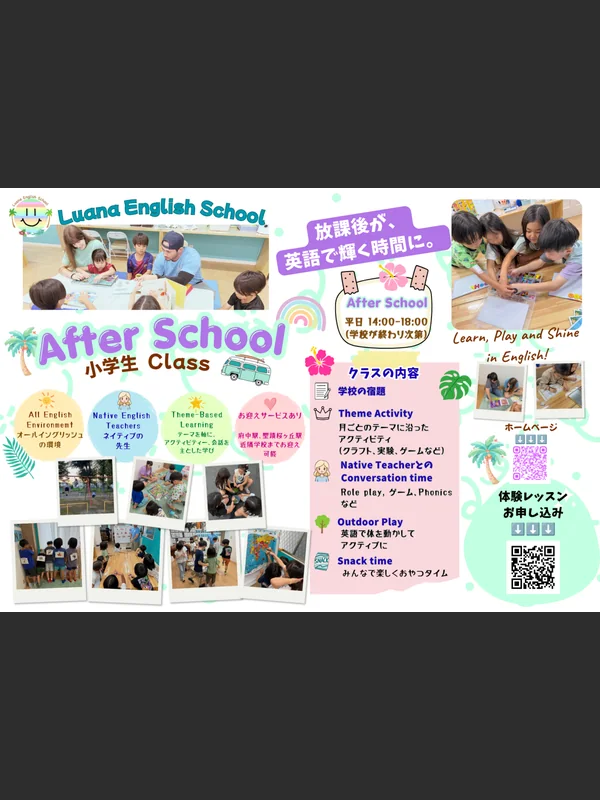
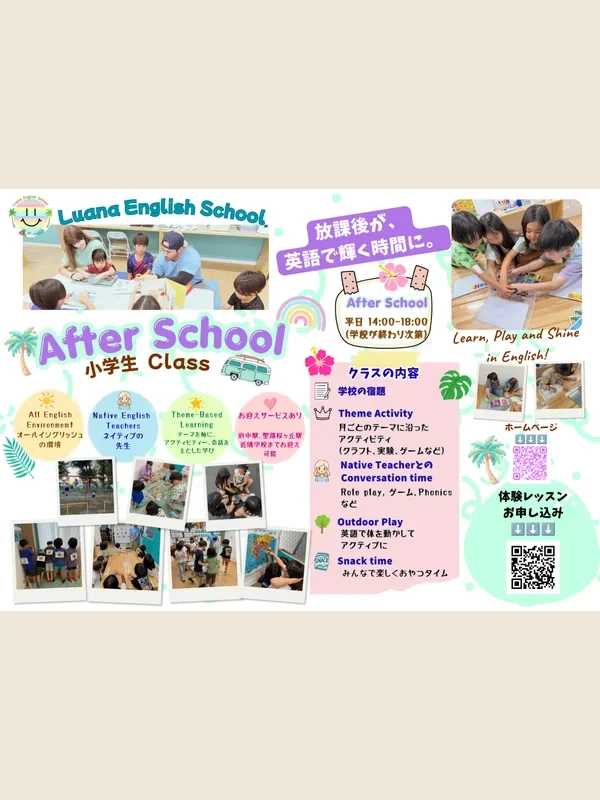
Site: lighter pages, softer flyer frames, tappable class links
- Tab icon: every page used the 573 KB logo.png as its favicon. A 96px
  favicon-96.png (11 KB) replaces it on all 16 pages.
- Summer page: seven photos existed only at 1600px. Added 960px versions
  and gave all ten large photos a srcset with measured sizes, so phones
  stop downloading the largest files (~3.8 MB -> ~1.8 MB while scrolling).
- Flyer and newsletter thumbnails: the dark #2D2D2D letterbox is now a
  light #EFE7DA. make-pdf-thumbs.py uses the new colour.
- Class pages: the その他のクラス links are padded to 42-45px tall
  (were 20px, under the WCAG 2.2 target size).

diff --git a/summer.html b/summer.html
@@ -3,7 +3,7 @@
 <head>
 <meta charset="UTF-8">
 <meta name="viewport" content="width=device-width, initial-scale=1.0">
-<link rel="icon" type="image/png" href="logo.png?v=20260814-transparent"><link rel="apple-touch-icon" href="/apple-touch-icon.png">
+<link rel="icon" type="image/png" href="/favicon-96.png?v=20261117"><link rel="apple-touch-icon" href="/apple-touch-icon.png">
 <link rel="stylesheet" href="site.css?v=20261010-waves">
 <link rel="canonical" href="https://luanaenglishschool.jp/summer">
 <title>府中市の子ども英語サマースクール2026｜活動の様子と通常クラス｜Luana</title>
@@ -81,36 +81,36 @@ nav{position:fixed;z-index:190;top:0;left:0;display:flex;width:100%;min-height:8
 
 <section class="summer-week week-festivals" aria-labelledby="week-1-title"><div class="summer-container"><div class="week-header"><div class="week-number"><span>Theme Week</span><strong>Week 1</strong></div><div class="week-copy"><h2 id="week-1-title" class="summer-heading">Festivals of the World</h2><p>タイ、ブラジル、インド、日本。水や色、衣装を使った活動を通して、世界のお祭りを英語と一緒に楽しみました。金曜日はteamLabへ出かけ、光と色に包まれる体験で一週間を締めくくりました。</p><ul class="week-route"><li>Songkran</li><li>Brazil Carnival</li><li>Holi</li><li>Japan Matsuri</li><li>Friday: teamLab</li></ul></div></div>
 <div class="story-grid">
-<figure class="story-photo featured"><img src="photos/summer-2026/1600/W1-D4-01-Japan-Matsuri.webp" srcset="photos/summer-2026/960/W1-D4-01-Japan-Matsuri.webp 960w,photos/summer-2026/1600/W1-D4-01-Japan-Matsuri.webp 1200w" sizes="(max-width:640px) calc(100vw - 24px),56vw" alt="夏祭りの活動で先生と一緒に写真を撮る子どもたち" width="1200" height="1500" loading="lazy"><figcaption>先生と一緒に楽しんだ Japan Matsuri</figcaption></figure>
+<figure class="story-photo featured"><img src="photos/summer-2026/1600/W1-D4-01-Japan-Matsuri.webp" srcset="photos/summer-2026/480/W1-D4-01-Japan-Matsuri.webp 480w,photos/summer-2026/720/W1-D4-01-Japan-Matsuri.webp 720w,photos/summer-2026/960/W1-D4-01-Japan-Matsuri.webp 960w,photos/summer-2026/1600/W1-D4-01-Japan-Matsuri.webp 1200w" sizes="(max-width:640px) calc(100vw - 24px),(max-width:900px) calc(100vw - 36px),(max-width:1200px) 47vw,574px" alt="夏祭りの活動で先生と一緒に写真を撮る子どもたち" width="1200" height="1500" loading="lazy"><figcaption>先生と一緒に楽しんだ Japan Matsuri</figcaption></figure>
 <figure class="story-photo"><img src="photos/summer-2026/960/W1-D1-03-Songkran.webp" alt="光を使ったソンクラーンのテーマ活動に取り組む子どもたち" width="913" height="732" loading="lazy"><figcaption>水と光から広がる Songkran</figcaption></figure>
 <figure class="story-photo"><img src="photos/summer-2026/960/W1-D2-01-Brazil-Carnival.webp" alt="手作りのカーニバルマスクを着けて踊る子ども" width="960" height="1200" loading="lazy"><figcaption>作ったマスクで Carnival</figcaption></figure>
-<figure class="story-photo wide"><img src="photos/summer-2026/1600/W1-D3-01-India-Holi.webp" alt="ホーリーをテーマに屋外で水遊びをする子どもたちと先生" width="1200" height="1500" loading="lazy"><figcaption>色と水で表現する Holi</figcaption></figure>
-<figure class="story-photo wide"><img src="photos/summer-2026/1600/W1-D5-01-teamLab-Field-Trip.webp" alt="teamLabへのフィールドトリップで集合する子どもたちと先生" width="1600" height="1200" loading="lazy"><figcaption>Friday Field Trip — teamLab</figcaption></figure>
+<figure class="story-photo wide"><img src="photos/summer-2026/1600/W1-D3-01-India-Holi.webp" srcset="photos/summer-2026/960/W1-D3-01-India-Holi.webp 960w,photos/summer-2026/1600/W1-D3-01-India-Holi.webp 1200w" sizes="(max-width:640px) calc(50vw - 16px),(max-width:900px) calc(100vw - 36px),(max-width:1200px) 47vw,574px" alt="ホーリーをテーマに屋外で水遊びをする子どもたちと先生" width="1200" height="1500" loading="lazy"><figcaption>色と水で表現する Holi</figcaption></figure>
+<figure class="story-photo wide"><img src="photos/summer-2026/1600/W1-D5-01-teamLab-Field-Trip.webp" srcset="photos/summer-2026/960/W1-D5-01-teamLab-Field-Trip.webp 960w,photos/summer-2026/1600/W1-D5-01-teamLab-Field-Trip.webp 1600w" sizes="(max-width:640px) calc(50vw - 16px),(max-width:900px) calc(100vw - 36px),(max-width:1200px) 47vw,574px" alt="teamLabへのフィールドトリップで集合する子どもたちと先生" width="1600" height="1200" loading="lazy"><figcaption>Friday Field Trip — teamLab</figcaption></figure>
 <figure class="story-photo"><img src="photos/summer-2026/960/W1-D5-03-teamLab-Field-Trip.webp" alt="teamLabの光の空間を歩く子どもたち" width="960" height="1200" loading="lazy"><figcaption>光と色の中を探検</figcaption></figure>
 </div><div class="week-reflection"><div class="reflection-card"><strong>英語を「使う」きっかけ</strong><p>色、衣装、道具、動きを英語で確かめながら、作ったものや体験したことを先生や友だちと共有しました。</p></div><div class="reflection-card"><strong>先生も一緒に楽しむ</strong><p>先生も制作やゲームに参加し、子どもたちが安心して表現できる空気を大切にしました。</p></div></div><div class="week-video-feature single-feature"><div class="week-video-copy"><span class="video-label">Watch the Week 1 Recap</span><h3>お祭りの一週間を動画で。</h3><p>写真の物語を、動きのある短いダイジェストでもご覧いただけます。</p></div><div class="video-grid single"><figure class="video-card"><video controls playsinline preload="metadata" poster="videos/summer-2026/week-1-songkran-poster.webp" aria-label="Week 1 Festivals of the World の活動ダイジェスト"><source src="videos/summer-2026/week-1-songkran.mp4" type="video/mp4">お使いのブラウザは動画の再生に対応していません。</video><figcaption><strong>Celebrating Festivals!</strong><span>世界のお祭り、制作、水遊びを楽しんだ一週間。</span></figcaption></figure></div></div></div></section>
 
 <section class="summer-week week-ocean" aria-labelledby="week-2-title"><div class="summer-container"><div class="week-header"><div class="week-number"><span>Theme Week</span><strong>Week 2</strong></div><div class="week-copy"><h2 id="week-2-title" class="summer-heading">Ocean Explorers</h2><p>海の生き物、サンゴ礁、潮と波、環境について、制作と実験を重ねた一週間。自分たちでボートを作り、小川に浮かべて水の流れの中で試しました。金曜日は新江ノ島水族館と海へ出かけました。</p><ul class="week-route"><li>Ocean Life</li><li>Coral Reef</li><li>Tides &amp; Waves</li><li>Conservation &amp; Climate</li><li>Friday: Aquarium &amp; Beach</li></ul></div></div>
 <div class="story-grid">
-<figure class="story-photo featured"><img src="photos/summer-2026/1600/W2-D1-04-Ocean-Life.webp" alt="海をテーマにした大きな共同作品を作る子どもたち" width="1600" height="1200" loading="lazy"><figcaption>力を合わせて作る Ocean Project</figcaption></figure>
+<figure class="story-photo featured"><img src="photos/summer-2026/1600/W2-D1-04-Ocean-Life.webp" srcset="photos/summer-2026/960/W2-D1-04-Ocean-Life.webp 960w,photos/summer-2026/1600/W2-D1-04-Ocean-Life.webp 1600w" sizes="(max-width:640px) calc(100vw - 24px),(max-width:900px) calc(100vw - 36px),(max-width:1200px) 47vw,574px" alt="海をテーマにした大きな共同作品を作る子どもたち" width="1600" height="1200" loading="lazy"><figcaption>力を合わせて作る Ocean Project</figcaption></figure>
 <figure class="story-photo"><img src="photos/summer-2026/960/W2-D4-01-Conservation-Climate.webp" alt="先生と一緒に水を使った環境活動に取り組む子どもたち" width="960" height="720" loading="lazy"><figcaption>手を動かして考える環境のこと</figcaption></figure>
-<figure class="story-photo wide"><img src="photos/summer-2026/1600/W2-D3-17-Tides-Waves.webp" alt="子どもたちが自分で作ったボートを先生と一緒に小川へ浮かべて試す様子" width="1064" height="1324" loading="lazy"><figcaption>作ったボートを小川に浮かべて実験</figcaption></figure>
+<figure class="story-photo wide"><img src="photos/summer-2026/1600/W2-D3-17-Tides-Waves.webp" srcset="photos/summer-2026/960/W2-D3-17-Tides-Waves.webp 960w,photos/summer-2026/1600/W2-D3-17-Tides-Waves.webp 1064w" sizes="(max-width:640px) calc(50vw - 16px),(max-width:900px) calc(100vw - 36px),(max-width:1200px) 47vw,574px" alt="子どもたちが自分で作ったボートを先生と一緒に小川へ浮かべて試す様子" width="1064" height="1324" loading="lazy"><figcaption>作ったボートを小川に浮かべて実験</figcaption></figure>
 <figure class="story-photo"><img src="photos/summer-2026/960/W2-D3-07-Tides-Waves.webp" alt="水辺で作品を持って集合する子どもたちと先生" width="960" height="720" loading="lazy"><figcaption>発見をみんなで共有</figcaption></figure>
-<figure class="story-photo wide"><img src="photos/summer-2026/1600/W2-D5-02-Aquarium-Beach-Field-Trip.webp" alt="新江ノ島水族館へのフィールドトリップで集合する子どもたちと先生" width="1600" height="1200" loading="lazy"><figcaption>Friday Field Trip — Aquarium &amp; Beach</figcaption></figure>
+<figure class="story-photo wide"><img src="photos/summer-2026/1600/W2-D5-02-Aquarium-Beach-Field-Trip.webp" srcset="photos/summer-2026/960/W2-D5-02-Aquarium-Beach-Field-Trip.webp 960w,photos/summer-2026/1600/W2-D5-02-Aquarium-Beach-Field-Trip.webp 1600w" sizes="(max-width:640px) calc(50vw - 16px),(max-width:900px) calc(100vw - 36px),(max-width:1200px) 47vw,574px" alt="新江ノ島水族館へのフィールドトリップで集合する子どもたちと先生" width="1600" height="1200" loading="lazy"><figcaption>Friday Field Trip — Aquarium &amp; Beach</figcaption></figure>
 <figure class="story-photo"><img src="photos/summer-2026/960/W2-D5-11-Aquarium-Beach-Field-Trip.webp" alt="水族館の大水槽を見学する子どもたち" width="960" height="720" loading="lazy"><figcaption>目の前の海の世界を観察</figcaption></figure>
 </div><div class="week-reflection"><div class="reflection-card"><strong>作って、浮かべて、確かめる</strong><p>自分たちで考えて作ったボートを実際の水に浮かべました。水の流れの中でどう動くかを試し、制作と発見をつなげました。</p></div><div class="reflection-card"><strong>一人の発見を、みんなの発見に</strong><p>先生の問いかけをきっかけに、見つけたものや考えたことを友だちと伝え合う時間を重ねました。</p></div></div><div class="week-video-feature single-feature"><div class="week-video-copy"><span class="video-label">Watch the Week 2 Recap</span><h3>海のすべてに、出会った夏。</h3><p>探究、船づくり、フィールドトリップの様子を短く振り返ります。</p></div><div class="video-grid single"><figure class="video-card"><video controls playsinline preload="metadata" poster="videos/summer-2026/week-2-oceans-poster.webp" aria-label="Week 2 Ocean Explorers の活動ダイジェスト"><source src="videos/summer-2026/week-2-oceans.mp4" type="video/mp4">お使いのブラウザは動画の再生に対応していません。</video><figcaption><strong>Exploring the Ocean</strong><span>海の生き物、環境、船づくりを探究した一週間。</span></figcaption></figure></div></div></div></section>
 
 <section class="summer-week week-adventure" aria-labelledby="week-3-title"><div class="summer-container"><div class="week-header"><div class="week-number"><span>Theme Week</span><strong>Week 3</strong></div><div class="week-copy"><h2 id="week-3-title" class="summer-heading">Adventure &amp; Survival</h2><p>準備、チームワーク、ナビゲーション、資源の使い方をテーマに、考えて動くことへ挑戦。金曜日はHug-Hugとボルダリングへ出かけ、先生や友だちと体をいっぱい動かしました。</p><ul class="week-route"><li>Survival Priorities</li><li>Preparation &amp; Teamwork</li><li>Navigation</li><li>Resource Management</li><li>Friday: Hug-Hug &amp; Bouldering</li></ul></div></div>
 <div class="story-grid">
-<figure class="story-photo featured"><img src="photos/summer-2026/1600/W3-D3-01-Navigation.webp" alt="先生と子どもたちが屋外でナビゲーション活動に取り組む様子" width="1161" height="872" loading="lazy"><figcaption>先生と一緒に考える Navigation</figcaption></figure>
+<figure class="story-photo featured"><img src="photos/summer-2026/1600/W3-D3-01-Navigation.webp" srcset="photos/summer-2026/960/W3-D3-01-Navigation.webp 960w,photos/summer-2026/1600/W3-D3-01-Navigation.webp 1161w" sizes="(max-width:640px) calc(100vw - 24px),(max-width:900px) calc(100vw - 36px),(max-width:1200px) 47vw,574px" alt="先生と子どもたちが屋外でナビゲーション活動に取り組む様子" width="1161" height="872" loading="lazy"><figcaption>先生と一緒に考える Navigation</figcaption></figure>
 <figure class="story-photo"><img src="photos/summer-2026/960/W3-D4-02-Resource-Management.webp" alt="資源の使い方をテーマに作った装置を持つ子ども" width="960" height="1200" loading="lazy"><figcaption>アイデアを形にする Resource Management</figcaption></figure>
 <figure class="story-photo"><img src="photos/summer-2026/960/W3-D5-05-Hug-Hug-Bouldering-Field-Trip.webp" alt="フィールドトリップでバランスラインに挑戦する子ども" width="960" height="1200" loading="lazy"><figcaption>バランスを取りながら一歩ずつ</figcaption></figure>
-<figure class="story-photo wide"><img src="photos/summer-2026/1600/W3-D5-07-Hug-Hug-Bouldering-Field-Trip.webp" alt="トランポリンで一緒に遊ぶ二人の子ども" width="1200" height="1500" loading="lazy"><figcaption>友だちと一緒にジャンプ</figcaption></figure>
+<figure class="story-photo wide"><img src="photos/summer-2026/1600/W3-D5-07-Hug-Hug-Bouldering-Field-Trip.webp" srcset="photos/summer-2026/960/W3-D5-07-Hug-Hug-Bouldering-Field-Trip.webp 960w,photos/summer-2026/1600/W3-D5-07-Hug-Hug-Bouldering-Field-Trip.webp 1200w" sizes="(max-width:640px) calc(50vw - 16px),(max-width:900px) calc(100vw - 36px),(max-width:1200px) 47vw,574px" alt="トランポリンで一緒に遊ぶ二人の子ども" width="1200" height="1500" loading="lazy"><figcaption>友だちと一緒にジャンプ</figcaption></figure>
 <figure class="story-photo"><img src="photos/summer-2026/960/W3-D5-11-Hug-Hug-Bouldering-Field-Trip.webp" alt="カラフルなブロックを組み立てて遊ぶ子ども" width="960" height="1200" loading="lazy"><figcaption>全身を使って作って遊ぶ</figcaption></figure>
-<figure class="story-photo wide"><img src="photos/summer-2026/1600/W3-D5-09-Hug-Hug-Bouldering-Field-Trip.webp" alt="フィールドトリップで先生と記念撮影をする子どもたち" width="1600" height="1200" loading="lazy"><figcaption>Friday Field Trip — Hug-Hug &amp; Bouldering</figcaption></figure>
+<figure class="story-photo wide"><img src="photos/summer-2026/1600/W3-D5-09-Hug-Hug-Bouldering-Field-Trip.webp" srcset="photos/summer-2026/480/W3-D5-09-Hug-Hug-Bouldering-Field-Trip.webp 480w,photos/summer-2026/720/W3-D5-09-Hug-Hug-Bouldering-Field-Trip.webp 720w,photos/summer-2026/960/W3-D5-09-Hug-Hug-Bouldering-Field-Trip.webp 960w,photos/summer-2026/1600/W3-D5-09-Hug-Hug-Bouldering-Field-Trip.webp 1600w" sizes="(max-width:640px) calc(100vw - 24px),(max-width:900px) calc(100vw - 36px),(max-width:1200px) 47vw,574px" alt="フィールドトリップで先生と記念撮影をする子どもたち" width="1600" height="1200" loading="lazy"><figcaption>Friday Field Trip — Hug-Hug &amp; Bouldering</figcaption></figure>
 </div><div class="week-reflection"><div class="reflection-card"><strong>考えて、相談して、試してみる</strong><p>何が必要か、どう進めるかを先生や友だちと考えるプロセスを大切にしました。</p></div><div class="reflection-card"><strong>安全に挑戦できる場所</strong><p>先生が近くで見守りながら、一人ひとりが自分のペースで新しい遊びや課題に挑みました。</p></div></div><div class="week-video-feature"><div class="week-video-copy"><span class="video-label">Watch the Week 3 Recaps</span><h3>冒険へ飛び出し、生き抜く力を試し、壁を越えた夏。</h3><p>教室でのサバイバル活動と、ボルダリングへのフィールドトリップを2本の動画でご覧ください。</p></div><div class="video-grid"><figure class="video-card"><video controls playsinline preload="metadata" poster="videos/summer-2026/week-3-adventure-poster.webp" aria-label="Week 3 Adventure and Survival の教室活動ダイジェスト"><source src="videos/summer-2026/week-3-adventure.mp4" type="video/mp4">お使いのブラウザは動画の再生に対応していません。</video><figcaption><strong>Surviving!</strong><span>ロープワークやナビゲーションに挑戦した教室活動。</span></figcaption></figure><figure class="video-card"><video controls playsinline preload="metadata" poster="videos/summer-2026/week-3-bouldering-poster.webp" aria-label="Week 3 ボルダリングとフィールドトリップのダイジェスト"><source src="videos/summer-2026/week-3-bouldering.mp4" type="video/mp4">お使いのブラウザは動画の再生に対応していません。</video><figcaption><strong>Adventuring!</strong><span>ボルダリングとアクティブな遊びで締めくくった夏。</span></figcaption></figure></div></div></div></section>
 
 <section class="summer-gains" aria-labelledby="gains-title"><div class="summer-container"><div class="gains-head"><div class="summer-kicker">What Children Gain</div><h2 id="gains-title" class="summer-heading">活動の先にある、5つの育ち。</h2><p class="summer-lead">英語だけを切り離して学ぶのではなく、夢中になれる体験の中で、伝える力や友だちと進める力を育てます。</p></div><div class="gains-grid"><div class="gain-card"><span>💬</span><strong>英語への自信</strong><p>短い言葉や反応から、使ってみる経験を積み重ねます。</p></div><div class="gain-card"><span>💡</span><strong>表現する力</strong><p>作ったもの、見つけたこと、自分の考えを伝えます。</p></div><div class="gain-card"><span>🎨</span><strong>創造と問題解決</strong><p>材料や方法を選び、試しながら形にしていきます。</p></div><div class="gain-card"><span>🤝</span><strong>チームワーク</strong><p>役割を分け、友だちや先生と一つの活動を進めます。</p></div><div class="gain-card"><span>🌱</span><strong>新しい環境での自立</strong><p>毎日の流れを知り、自分で準備し、次の活動へ向かいます。</p></div></div></div></section>
-<section class="summer-day" aria-labelledby="day-title"><div class="summer-container day-layout"><div class="day-copy"><div class="summer-kicker">A Typical Day</div><h2 id="day-title" class="summer-heading">一日のリズムが、安心につながる。</h2><p class="summer-lead">テーマや外出先が変わっても、基本の流れがあるから初めてのお子さまも次の活動を見通しやすくなります。</p><ol class="day-flow"><li><b>01</b><div><strong>Arrival &amp; Hello</strong><span>登校・準備・英語のあいさつ</span></div></li><li><b>02</b><div><strong>Circle Time</strong><span>歌やゲームで一日のテーマへ</span></div></li><li><b>03</b><div><strong>Theme Activity</strong><span>制作・実験・グループ活動</span></div></li><li><b>04</b><div><strong>Lunch &amp; Free Play</strong><span>友だちや先生と過ごす時間</span></div></li><li><b>05</b><div><strong>Project or Trip</strong><span>テーマを深める活動や外出</span></div></li><li><b>06</b><div><strong>Diary &amp; Goodbye</strong><span>一日を振り返り、帰りのあいさつ</span></div></li></ol></div><figure class="day-photo"><img src="photos/summer-2026/1600/W2-D4-01-Conservation-Climate.webp" alt="先生と子どもたちがテーブルを囲んで環境活動に取り組む様子" width="1600" height="1200" loading="lazy"></figure></div></section>
+<section class="summer-day" aria-labelledby="day-title"><div class="summer-container day-layout"><div class="day-copy"><div class="summer-kicker">A Typical Day</div><h2 id="day-title" class="summer-heading">一日のリズムが、安心につながる。</h2><p class="summer-lead">テーマや外出先が変わっても、基本の流れがあるから初めてのお子さまも次の活動を見通しやすくなります。</p><ol class="day-flow"><li><b>01</b><div><strong>Arrival &amp; Hello</strong><span>登校・準備・英語のあいさつ</span></div></li><li><b>02</b><div><strong>Circle Time</strong><span>歌やゲームで一日のテーマへ</span></div></li><li><b>03</b><div><strong>Theme Activity</strong><span>制作・実験・グループ活動</span></div></li><li><b>04</b><div><strong>Lunch &amp; Free Play</strong><span>友だちや先生と過ごす時間</span></div></li><li><b>05</b><div><strong>Project or Trip</strong><span>テーマを深める活動や外出</span></div></li><li><b>06</b><div><strong>Diary &amp; Goodbye</strong><span>一日を振り返り、帰りのあいさつ</span></div></li></ol></div><figure class="day-photo"><img src="photos/summer-2026/1600/W2-D4-01-Conservation-Climate.webp" srcset="photos/summer-2026/960/W2-D4-01-Conservation-Climate.webp 960w,photos/summer-2026/1600/W2-D4-01-Conservation-Climate.webp 1600w" sizes="(max-width:640px) calc(100vw - 24px),(max-width:900px) calc(100vw - 36px),(max-width:1200px) 52vw,640px" alt="先生と子どもたちがテーブルを囲んで環境活動に取り組む様子" width="1600" height="1200" loading="lazy"></figure></div></section>
 <section class="summer-faq" aria-labelledby="faq-title"><div class="summer-container"><div class="faq-head"><div class="summer-kicker">FAQ</div><h2 id="faq-title" class="summer-heading">よくある質問</h2></div><div class="faq-list"><article class="faq-item"><h3>英語が初めてでも参加できますか？</h3><p>はい。英語経験にかかわらず、歌、ゲーム、制作など、見てまねしながら参加できる活動を用意しています。</p></article><article class="faq-item"><h3>外部生も参加できますか？</h3><p>2026年度は通常クラスに通っていないお子さまにもご参加いただきました。次回の参加条件は募集案内でご確認ください。</p></article><article class="faq-item"><h3>対象年齢は？</h3><p>2026年度は年中・年長・小学生を対象に実施しました。次回の対象学年は開催内容の決定後にお知らせします。</p></article><article class="faq-item"><h3>何日から参加できますか？</h3><p>参加日数や申込単位は年度によって変わる場合があります。次回の募集開始時に日程とあわせてご案内します。</p></article><article class="faq-item"><h3>英語は一日中使いますか？</h3><p>先生の声かけやテーマ活動を中心に英語のある環境を作り、必要に応じて安心して参加できるようサポートします。</p></article><article class="faq-item"><h3>次回の募集はいつ始まりますか？</h3><p>開催内容が決まり次第、このページやLINEなどでお知らせします。現在、未確定の日程や料金は掲載していません。</p></article></div></div></section>
 <section class="summer-next" aria-labelledby="next-title"><div class="summer-container"><div class="summer-kicker">Continue With Luana</div><h2 id="next-title" class="summer-heading">夏の体験を、毎日の学びへ。</h2><p>Luanaでは、Preschool・Kinder School・After Schoolを年間を通して開講しています。まずは通常クラスの体験レッスンで、子どもたちが英語を使う日常をご覧ください。次回サマースクールの情報も、内容が決まり次第お知らせします。</p><div class="hero-actions"><a class="summer-button summer-button-primary" href="/#trial" onclick="gtag('event','summer_next_trial')">通常クラスを体験する</a><a class="summer-button summer-button-secondary" href="https://lin.ee/SOqP6Vz" target="_blank" rel="noopener" onclick="gtag('event','summer_next_line')">LINEで相談する</a></div><div class="summer-note">次回サマースクールの日程・テーマ・募集方法は未定です。</div></div></section>
 </main>

diff --git a/peekaboo.html b/peekaboo.html
@@ -2,7 +2,7 @@
 <html lang="ja">
 <head>
 <meta charset="UTF-8">
-<link rel="icon" type="image/png" href="logo.png?v=20260814-transparent"><link rel="apple-touch-icon" href="/apple-touch-icon.png">
+<link rel="icon" type="image/png" href="/favicon-96.png?v=20261117"><link rel="apple-touch-icon" href="/apple-touch-icon.png">
 <link rel="stylesheet" href="/site.css?v=20261010-waves">
 <meta name="viewport" content="width=device-width, initial-scale=1.0">
 <link rel="canonical" href="https://luanaenglishschool.jp/peekaboo">
@@ -421,6 +421,8 @@
   }
   .site-footer .footer-links a { font-weight: 800; } @media (max-width: 760px) { .footer-links { row-gap: 0; } .footer-links a, footer p a { display: inline-flex; align-items: center; min-height: 44px; padding: 0 4px; } }
   @media(max-width: 600px) { .site-footer { padding: 30px 16px; } }
+  /* Cross-class links: padded to a comfortable tap height (WCAG 2.2 target size). */
+  .other-classes a { display:inline-block; padding:10px 4px; }
 </style>
 <!-- Google Analytics -->
 <script>
@@ -613,7 +615,7 @@ window.addEventListener('resize',_fixSeasonalNav);
     </div>
   </div>
 
-  <div role="navigation" aria-label="その他のクラス" style="text-align:center;margin:32px 0 12px;">
+  <div class="other-classes" role="navigation" aria-label="その他のクラス" style="text-align:center;margin:32px 0 12px;">
     <strong>その他のクラス：</strong>
     <a href="/preschool">プリスクール（1〜3歳）</a> ・ <a href="/kinder">キンダースクール（年少〜年長）</a> ・ <a href="/afterschool">アフタースクール（小学生）</a>
   </div>

diff --git a/preschool.html b/preschool.html
@@ -2,7 +2,7 @@
 <html lang="ja">
 <head>
 <meta charset="UTF-8">
-<link rel="icon" type="image/png" href="logo.png?v=20260814-transparent"><link rel="apple-touch-icon" href="/apple-touch-icon.png">
+<link rel="icon" type="image/png" href="/favicon-96.png?v=20261117"><link rel="apple-touch-icon" href="/apple-touch-icon.png">
 <link rel="stylesheet" href="/site.css?v=20261010-waves">
 <meta name="viewport" content="width=device-width, initial-scale=1.0">
 <link rel="canonical" href="https://luanaenglishschool.jp/preschool">
@@ -517,6 +517,8 @@
   }
   .site-footer .footer-links a { font-weight: 800; } @media (max-width: 760px) { .footer-links { row-gap: 0; } .footer-links a, footer p a { display: inline-flex; align-items: center; min-height: 44px; padding: 0 4px; } }
   @media(max-width: 600px) { .site-footer { padding: 30px 16px; } }
+  /* Cross-class links: padded to a comfortable tap height (WCAG 2.2 target size). */
+  .other-classes a { display:inline-block; padding:10px 4px; }
 </style>
 <!-- Google Analytics -->
 <script>
@@ -723,7 +725,7 @@ window.addEventListener('resize',_fixSeasonalNav);
     </div>
   </div>
 
-  <div role="navigation" aria-label="その他のクラス" style="text-align:center;margin:32px 0 12px;">
+  <div class="other-classes" role="navigation" aria-label="その他のクラス" style="text-align:center;margin:32px 0 12px;">
     <strong>その他のクラス：</strong>
     <a href="/peekaboo">Peekaboo（0〜3歳・親子）</a> ・ <a href="/kinder">キンダースクール（年少〜年長）</a> ・ <a href="/afterschool">アフタースクール（小学生）</a>
   </div>

diff --git a/afterschool.html b/afterschool.html
@@ -2,7 +2,7 @@
 <html lang="ja">
 <head>
 <meta charset="UTF-8">
-<link rel="icon" type="image/png" href="logo.png?v=20260814-transparent"><link rel="apple-touch-icon" href="/apple-touch-icon.png">
+<link rel="icon" type="image/png" href="/favicon-96.png?v=20261117"><link rel="apple-touch-icon" href="/apple-touch-icon.png">
 <link rel="stylesheet" href="/site.css?v=20261010-waves">
 <meta name="viewport" content="width=device-width, initial-scale=1.0">
 <link rel="canonical" href="https://luanaenglishschool.jp/afterschool">
@@ -471,6 +471,8 @@
   }
   .site-footer .footer-links a { font-weight: 800; } @media (max-width: 760px) { .footer-links { row-gap: 0; } .footer-links a, footer p a { display: inline-flex; align-items: center; min-height: 44px; padding: 0 4px; } }
   @media(max-width: 600px) { .site-footer { padding: 30px 16px; } }
+  /* Cross-class links: padded to a comfortable tap height (WCAG 2.2 target size). */
+  .other-classes a { display:inline-block; padding:10px 4px; }
 </style>
 <!-- Google Analytics -->
 <script>
@@ -669,7 +671,7 @@ window.addEventListener('resize',_fixSeasonalNav);
     </div>
   </div>
 
-  <div role="navigation" aria-label="その他のクラス" style="text-align:center;margin:32px 0 12px;">
+  <div class="other-classes" role="navigation" aria-label="その他のクラス" style="text-align:center;margin:32px 0 12px;">
     <strong>その他のクラス：</strong>
     <a href="/peekaboo">Peekaboo（0〜3歳・親子）</a> ・ <a href="/preschool">プリスクール（1〜3歳）</a> ・ <a href="/kinder">キンダースクール（年少〜年長）</a>
   </div>

diff --git a/kinder.html b/kinder.html
@@ -2,7 +2,7 @@
 <html lang="ja">
 <head>
 <meta charset="UTF-8">
-<link rel="icon" type="image/png" href="logo.png?v=20260814-transparent"><link rel="apple-touch-icon" href="/apple-touch-icon.png">
+<link rel="icon" type="image/png" href="/favicon-96.png?v=20261117"><link rel="apple-touch-icon" href="/apple-touch-icon.png">
 <link rel="stylesheet" href="/site.css?v=20261010-waves">
 <meta name="viewport" content="width=device-width, initial-scale=1.0">
 <link rel="canonical" href="https://luanaenglishschool.jp/kinder">
@@ -475,6 +475,8 @@
     border-radius: 0 10px 10px 0; padding: 10px 16px; margin: 0 0 26px;
     font-size: 0.9rem; color: #6E4517; line-height: 1.7;
   }
+  /* Cross-class links: padded to a comfortable tap height (WCAG 2.2 target size). */
+  .other-classes a { display:inline-block; padding:10px 4px; }
 </style>
 <!-- Google Analytics -->
 <script>
@@ -692,7 +694,7 @@ window.addEventListener('resize',_fixSeasonalNav);
     </div>
   </div>
 
-  <div role="navigation" aria-label="その他のクラス" style="text-align:center;margin:32px 0 12px;">
+  <div class="other-classes" role="navigation" aria-label="その他のクラス" style="text-align:center;margin:32px 0 12px;">
     <strong>その他のクラス：</strong>
     <a href="/peekaboo">Peekaboo（0〜3歳・親子）</a> ・ <a href="/preschool">プリスクール（1〜3歳）</a> ・ <a href="/afterschool">アフタースクール（小学生）</a>
   </div>

diff --git a/404.html b/404.html
@@ -3,7 +3,7 @@
 <head>
 <meta charset="UTF-8">
 <meta name="viewport" content="width=device-width, initial-scale=1.0">
-<link rel="icon" type="image/png" href="/logo.png?v=20260814-transparent"><link rel="apple-touch-icon" href="/apple-touch-icon.png">
+<link rel="icon" type="image/png" href="/favicon-96.png?v=20261117"><link rel="apple-touch-icon" href="/apple-touch-icon.png">
 <link rel="preconnect" href="https://fonts.googleapis.com"><link rel="preconnect" href="https://fonts.gstatic.com" crossorigin><link rel="stylesheet" href="https://fonts.googleapis.com/css2?family=Zen+Maru+Gothic:wght@500;700&display=swap" media="print" onload="this.media='all'"><noscript><link rel="stylesheet" href="https://fonts.googleapis.com/css2?family=Zen+Maru+Gothic:wght@500;700&display=swap"></noscript>
 <title>ページが見つかりません | Luana English School</title>
 <!-- Served with status 404 for any missing URL (wrangler.jsonc not_found_handling), so every path here is absolute. -->

diff --git a/privacy.html b/privacy.html
@@ -3,7 +3,7 @@
 <head>
 <meta charset="UTF-8">
 <meta name="viewport" content="width=device-width, initial-scale=1.0">
-<link rel="icon" type="image/png" href="logo.png?v=20260814-transparent"><link rel="apple-touch-icon" href="/apple-touch-icon.png">
+<link rel="icon" type="image/png" href="/favicon-96.png?v=20261117"><link rel="apple-touch-icon" href="/apple-touch-icon.png">
 <link rel="preconnect" href="https://fonts.googleapis.com"><link rel="preconnect" href="https://fonts.gstatic.com" crossorigin><link rel="stylesheet" href="https://fonts.googleapis.com/css2?family=Zen+Maru+Gothic:wght@500;700&display=swap" media="print" onload="this.media='all'"><noscript><link rel="stylesheet" href="https://fonts.googleapis.com/css2?family=Zen+Maru+Gothic:wght@500;700&display=swap"></noscript><link rel="stylesheet" href="/site.css">
 <link rel="canonical" href="https://luanaenglishschool.jp/privacy">
 <title>プライバシーポリシー | Luana English School</title>

diff --git a/newsletter.html b/newsletter.html
@@ -2,7 +2,7 @@
 <html lang="ja">
 <head>
 <meta charset="UTF-8">
-<link rel="icon" type="image/png" href="logo.png?v=20260814-transparent"><link rel="apple-touch-icon" href="/apple-touch-icon.png">
+<link rel="icon" type="image/png" href="/favicon-96.png?v=20261117"><link rel="apple-touch-icon" href="/apple-touch-icon.png">
 <link rel="stylesheet" href="/site.css?v=20261010-waves">
 <meta name="viewport" content="width=device-width, initial-scale=1.0">
 <link rel="canonical" href="https://luanaenglishschool.jp/newsletter">

diff --git a/gallery.html b/gallery.html
@@ -2,7 +2,7 @@
 <html lang="ja">
 <head>
 <meta charset="UTF-8">
-<link rel="icon" type="image/png" href="logo.png?v=20260814-transparent"><link rel="apple-touch-icon" href="/apple-touch-icon.png">
+<link rel="icon" type="image/png" href="/favicon-96.png?v=20261117"><link rel="apple-touch-icon" href="/apple-touch-icon.png">
 <link rel="stylesheet" href="/site.css?v=20261010-waves">
 <meta name="viewport" content="width=device-width, initial-scale=1.0">
 <link rel="canonical" href="https://luanaenglishschool.jp/gallery">

diff --git a/events.html b/events.html
@@ -2,7 +2,7 @@
 <html lang="ja">
 <head>
 <meta charset="UTF-8">
-<link rel="icon" type="image/png" href="logo.png?v=20260814-transparent"><link rel="apple-touch-icon" href="/apple-touch-icon.png">
+<link rel="icon" type="image/png" href="/favicon-96.png?v=20261117"><link rel="apple-touch-icon" href="/apple-touch-icon.png">
 <link rel="stylesheet" href="/site.css?v=20261010-waves">
 <meta name="viewport" content="width=device-width, initial-scale=1.0">
 <link rel="canonical" href="https://luanaenglishschool.jp/events">

diff --git a/fees.html b/fees.html
@@ -2,7 +2,7 @@
 <html lang="ja">
 <head>
 <meta charset="UTF-8">
-<link rel="icon" type="image/png" href="logo.png?v=20260814-transparent"><link rel="apple-touch-icon" href="/apple-touch-icon.png">
+<link rel="icon" type="image/png" href="/favicon-96.png?v=20261117"><link rel="apple-touch-icon" href="/apple-touch-icon.png">
 <link rel="stylesheet" href="/site.css?v=20261010-waves">
 <meta name="viewport" content="width=device-width, initial-scale=1.0">
 <link rel="canonical" href="https://luanaenglishschool.jp/fees">

diff --git a/index.html b/index.html
@@ -2,7 +2,7 @@
 <html lang="ja">
 <head>
 <meta charset="UTF-8">
-<link rel="icon" type="image/png" href="logo.png?v=20260814-transparent"><link rel="apple-touch-icon" href="/apple-touch-icon.png">
+<link rel="icon" type="image/png" href="/favicon-96.png?v=20261117"><link rel="apple-touch-icon" href="/apple-touch-icon.png">
 <link rel="stylesheet" href="/site.css?v=20261010-waves">
 <meta name="viewport" content="width=device-width, initial-scale=1.0">
 <link rel="canonical" href="https://luanaenglishschool.jp/">
